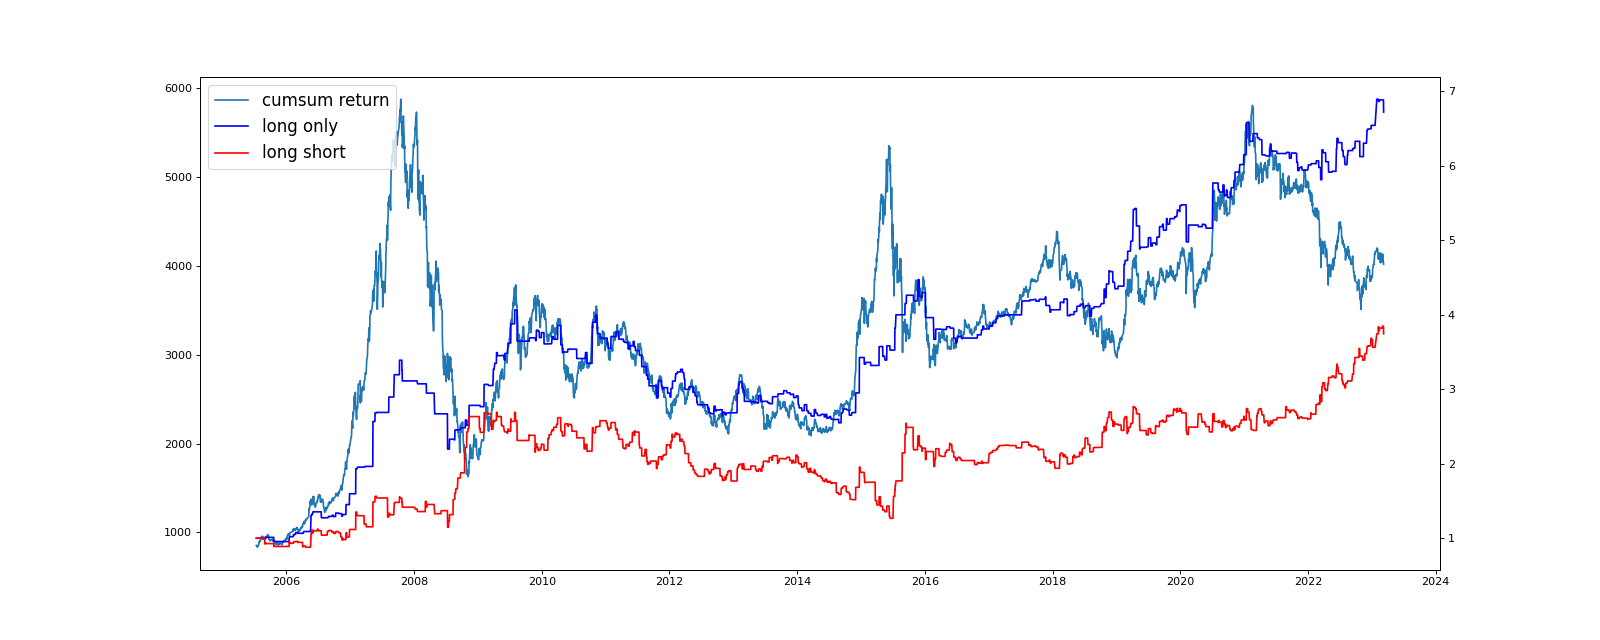
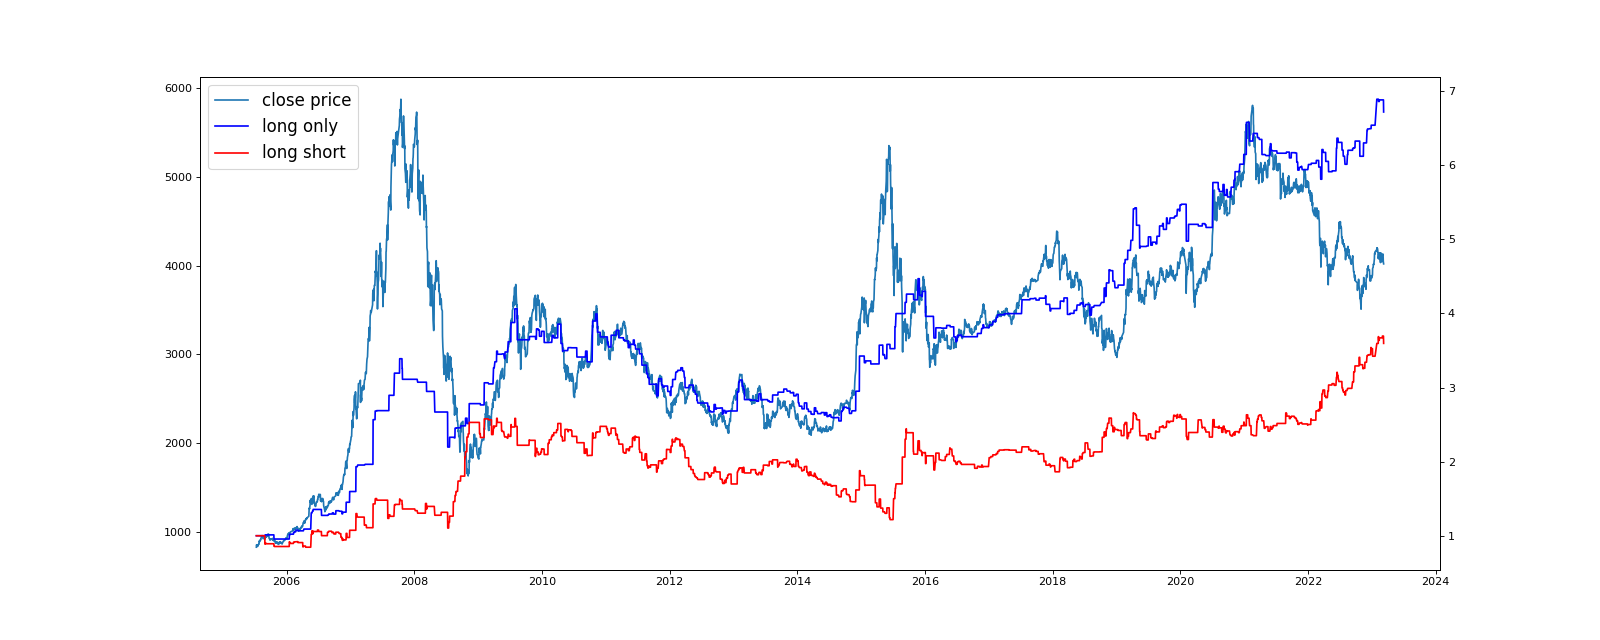
second change

diff --git a/codes/getOrders.py b/codes/getOrders.py
@@ -18,7 +18,7 @@ def get_orders(path_start, path_end, factor):
 
         # 信号转换为order，只做多
         position = 0
-        for i in range(1, len(df2.index)):
+        for i in range(len(df2.index)):
             delta_position = 0
             if position == 0 and df2.loc[df2.index[i], 'signal'] == '看多':
                 delta_position = 1
@@ -26,7 +26,6 @@ def get_orders(path_start, path_end, factor):
                 delta_position = -position
             position += delta_position
             df2.loc[df2.index[i], 'delta_position_long_only'] = delta_position
-        df2.dropna(axis=0, inplace=True)
 
         # 信号转换为order，多空
         position = 0
@@ -39,8 +38,6 @@ def get_orders(path_start, path_end, factor):
                 delta_position = -1
             position += delta_position
             df2.loc[df2.index[i], 'delta_position_long_short'] = delta_position
-            
-        df2.dropna(axis=0, inplace=True)
 
         df2[['收盘', 'delta_position_long_only', 'position_long_short', 'delta_position_long_short']].to_csv(\
             path_end + '/' + file[:-4] + '_' + factor + '.csv')

diff --git a/codes/testFactors.py b/codes/testFactors.py
@@ -2,12 +2,15 @@ import os
 import pandas as pd
 import numpy as np
 
-def test_orders(path_start, path_end, factor):
+def test_orders(path_start, factor):
     files = os.listdir(path_start)
     for file in files:
         df2 = pd.read_csv(path_start + '/' + file, index_col=0)
         df2.index = pd.to_datetime(df2.index).values.astype('datetime64[D]')
-        df2['return'] = np.log(df2['收盘'] / df2['收盘'].shift())
-        print(df2[['return', factor]].corr())
+        df2['return'] = np.log(df2['收盘'].shift(-1) / df2['收盘'])
+        for i in range(1, len(df2.index)):
+            df2.loc[df2.index[i], 'factor_slope'] = 1 if df2.loc[df2.index[i], factor] - df2.loc[df2.index[i-1], factor] >= 0\
+                else -1
+        print(df2[['return', 'factor_slope']].corr())
 
-test_orders('./factors', './orders', 'vnsp_llt')
+test_orders('./factors', 'vnsp_llt')

diff --git a/codes/getResults.py b/codes/getResults.py
@@ -47,7 +47,7 @@ def get_results(path_start, path_end, factor):
         #绘制第一个Y轴
         fig = plt.figure(figsize=(20,8), dpi=80)
         ax = fig.add_subplot(111)
-        lin1 = ax.plot(df3.index, df3['收盘'], label='cumsum return')
+        lin1 = ax.plot(df3.index, df3['收盘'], label='close price')
         
         #绘制另一Y轴    
         ax1 = ax.twinx()

diff --git a/README.md b/README.md
@@ -1,44 +1,55 @@
-1. 背景
-    出于对行为金融学的兴趣，选取行为金融学中的前景理论作为理论基础，复现广发证券研报《交易性择时策略研究之十四————基于V型处置效应的择时研究》。
+# 目录
+- [目录](#目录)
+- [背景](#背景)
+- [好的思路](#好的思路)
+- [细节](#细节)
+- [代码运行](#代码运行)
+  - [数据准备](#数据准备)
+  - [安装所需依赖包](#安装所需依赖包)
+  - [各模块说明](#各模块说明)
+- [结果分析](#结果分析)
+- [不足与改进](#不足与改进)
+- [项目主要负责人](#项目主要负责人)
+# 背景
+出于对行为金融学的兴趣，选取行为金融学中的前景理论作为理论基础，复现广发证券研报《交易性择时策略研究之十四——基于V型处置效应的择时研究》，利用V型处置效应实现指数的择时策略。
+# 好的思路
+- 将处置效应的因子分解成gain和loss
+- LLT方法降低因子频率:  
+>本篇专题报告对因子走势进行了平滑性处理，具体的方法是采用广发证券金融工程在2013年7月26日《低延迟趋势线与交易性择时》报告中采用的LLT方法。
 
-2. 策略思路
-   构造gain因子，loss因子和VNSP因子；
-   本篇专题报告对因子走势进行了平滑性处理，具体的方法是采用广发证券金融工程在2013年7月26日《低延迟趋势线与交易性择时》报告中采用的LLT方法；https://bigquant.com/wiki/doc/qushi-zhengquan-20170303-3imEKrVq0S
-   https://zhuanlan.zhihu.com/p/469846743
-   因子的检验:
-   择时因子的检验
-   择时策略：
-   因子-信号：当t − 1交易日的对应因子值比t − 2日的因子数值小时，说明卖出意愿变强，则在t交易日看空，反之则在t交易日看多。
-   信号-仓位：
-   趋势跟踪：一把子梭哈：看空，则开空仓，如有多仓平多仓；看多，则开多仓，如有空仓平空仓
-   均值回归：逐步加仓：看空做多，逐步加仓，看多做空。
-   两者结合
-
-3. 数据准备
-   因子构建部分采用指数数据，原文采用指数数据进行交易，为了方便交易，这里采用指数ETF的数据进行交易，
-   具体而言：
-   选取如下指数：上证综指（000001.SH）、中证500（000905.SH）、创业板指数（399006.SZ）、中小板指数（399005.SZ）、沪深300指数（000300.SH）
-   回测区间：指数上市至2022/12/31
-   数据类型：日度成交额，成交量，换手率，指数收盘价，ETF收盘价
-
-4. 预期结果
-    利用V型处置效应实现指数的择时策略。
-
-5. 工作安排
-    3/10：完成基本框架
-    3/11-3/16：策略改进：完善因子的检验；进行参数敏感性分析；对处置效应和V型处置效应进行区分；做空方面：引入股指期货；扩展到分钟数据。
-
-6. 代码运行
-    准备文件夹：/data, /factors, /orders, /figures
-    代码运行顺序：getIndexInfo.py -> getData.py -> getFactors.py -> testFactors.py -> strategy.py -> backtest.py
-
-7. 遇到的问题
-    因子与收益率的相关性不强
-    多空的收益不如纯多
-    llt方法使得因子变为负值
-
-
-
-
-
-
+相关链接：
+- https://bigquant.com/wiki/doc/qushi-zhengquan-20170303-3imEKrVq0S  
+- https://zhuanlan.zhihu.com/p/469846743
+# 细节
+- LLT的参数选取
+- 因子的检验：择时因子的检验和选股因子的检验存在差异
+- 仓位管理：对于看多看空的仓位处理没有提及，对于纯多和多空的差异没有提及；  
+- 对仓位管理的思考：  
+趋势跟踪（一把子梭哈）：看空，则开空仓，如有多仓平多仓；看多，则开多仓，如有空仓平空仓；  
+均值回归（逐步加仓）：看空做多，逐步加仓，看多做空。
+# 代码运行
+1. 准备文件夹：/data, /factors, /orders, /figures
+2. 代码运行顺序：getIndexInfo.py -> getData.py -> getFactors.py -> testFactors.py -> getOrders.py -> getResults.py
+## 数据准备
+- 数据选取：因子构建部分采用指数数据，原文采用指数数据进行交易。  
+具体而言，选取如下指数：上证综指（000001.SH）、中证500（000905.SH）、创业板指数（399006.SZ）、中小板指数（399005.SZ）、沪深300指数（000300.SH）
+- 数据类型：日度成交额，成交量，换手率，指数收盘价
+- 回测区间：各指数上市日至2023/3/10  
+## 安装所需依赖包
+`pip install akshare`
+## 各模块说明
+- getData.py: 通过akshare API得到所需数据；   
+- getFactors.py: 构造gain因子，loss因子和vnsp因子；  
+- getOrders.py: 实现择时策略：当t − 1交易日的对应因子值比t − 2日的因子数值小时，说明卖出意愿变强，则在t交易日看空，反之则在t交易日看多。
+# 结果分析
+- 因子与收益率的相关性不强；
+- 多空的收益不如纯多；
+- llt方法使得因子变为负值, 特别是接近初始状态的时候，中证500和创业板指的回撤很大，两者都是初始状态为熊市，说明策略在空头市场的收益率不是很好，可能需要修改开平仓规则。
+# 不足与改进
+1. 完善因子的检验；
+2. 进行参数敏感性分析；
+3. 对处置效应和V型处置效应进行区分；
+4. 为了方便交易，可以采用指数ETF的数据进行交易，做空方面：引入股指期货；
+5. 扩展到分钟数据。
+# 项目主要负责人
+@algo23-Jinzhao
